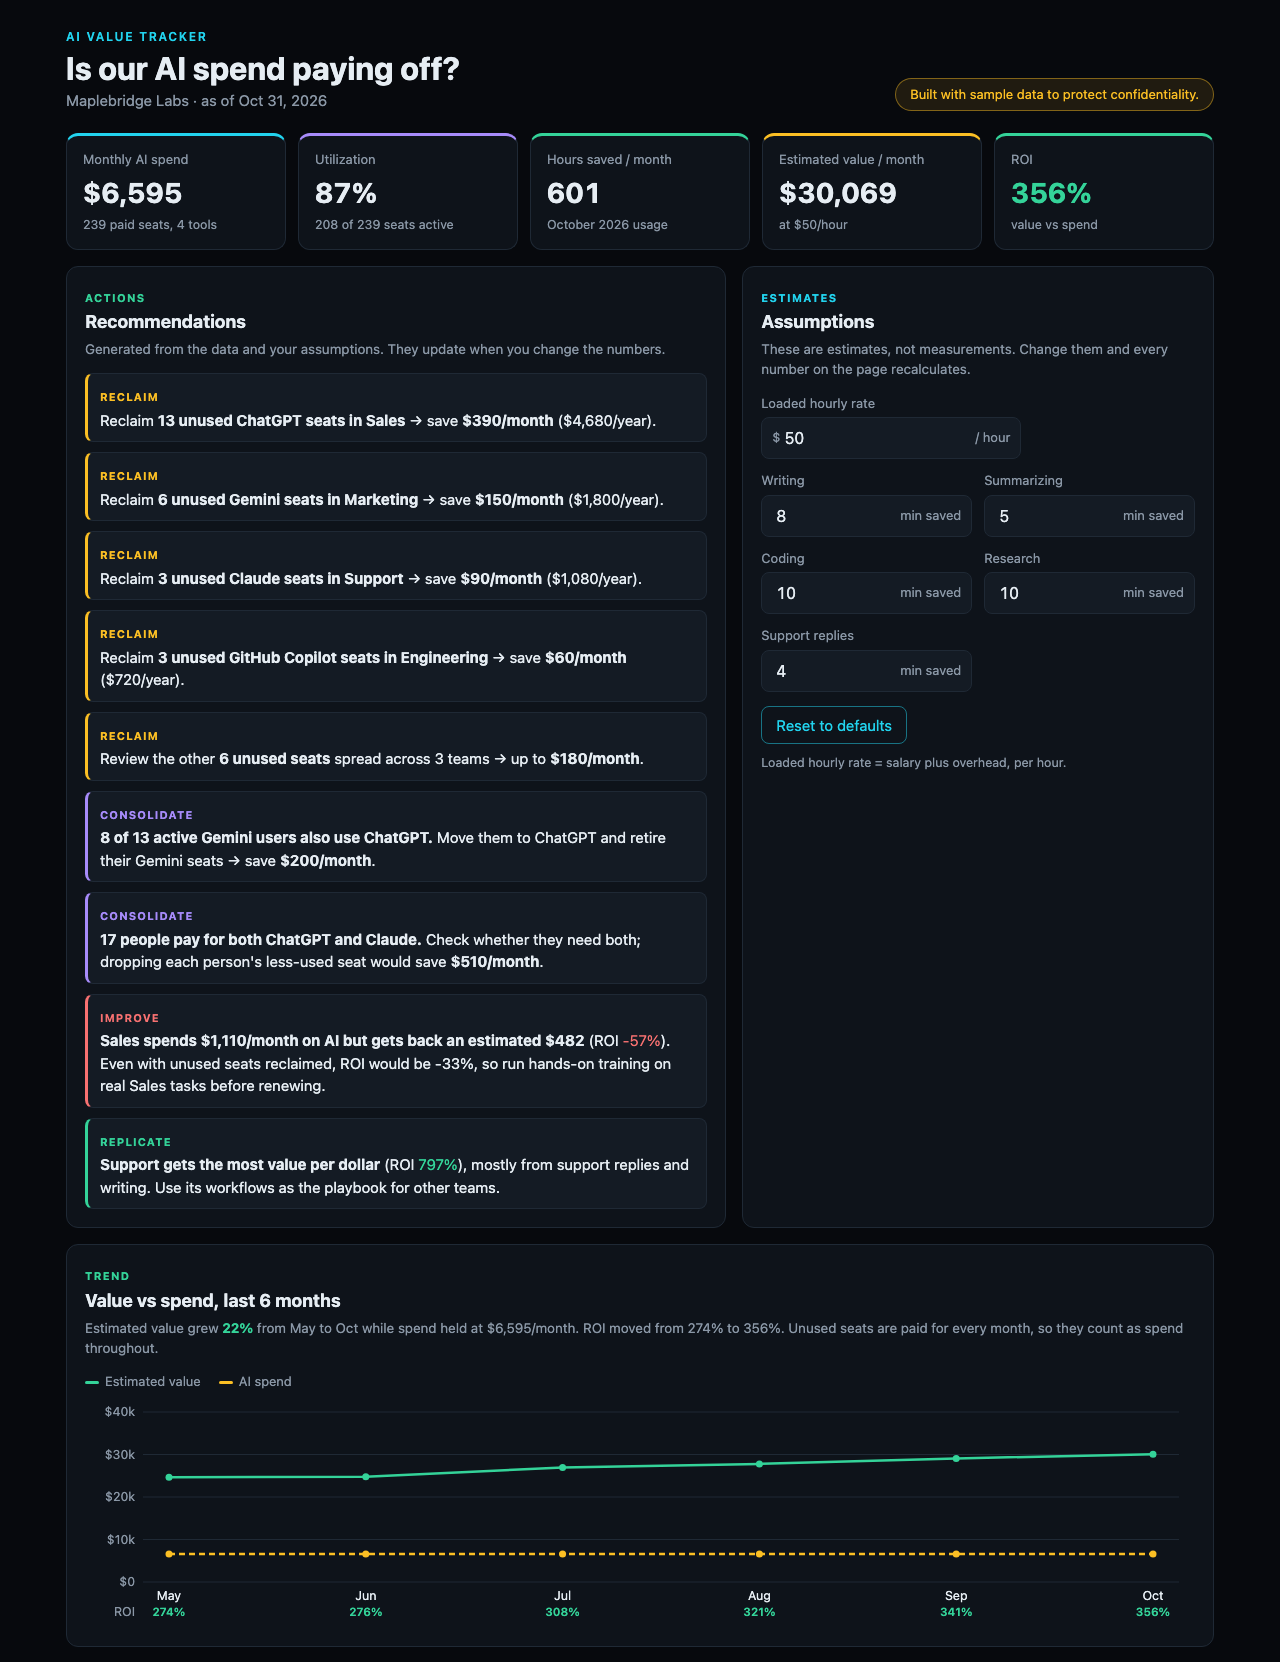
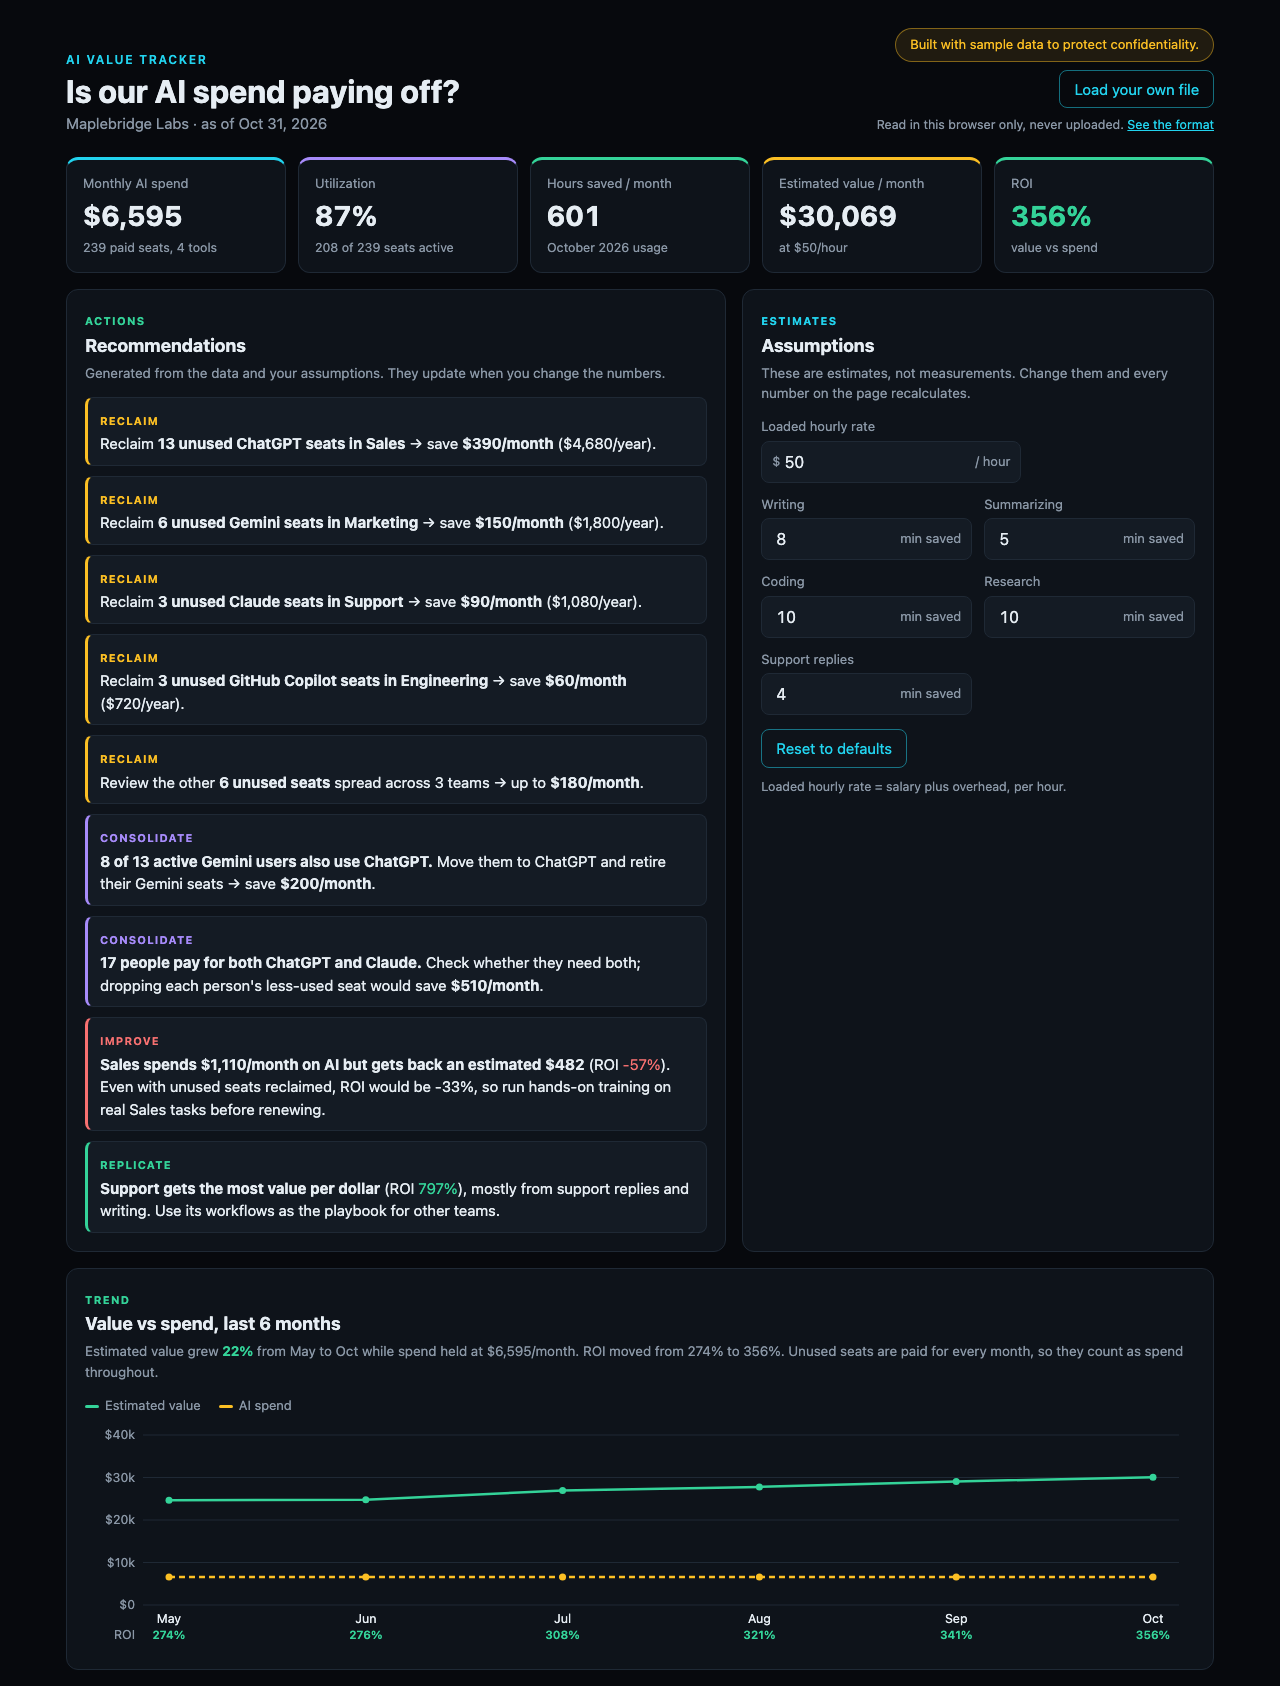
Add load-your-own-file button with validation
Read a user's JSON export in the browser (never uploaded), validate it
against the shape calculate() needs, and list every problem if it fails
while keeping the current data on screen. The couldn't-load panel gets
the same picker so opening index.html directly still works.

diff --git a/index.html b/index.html
@@ -119,6 +119,13 @@
   }
   footer { color: var(--muted); font-size: 13px; margin-top: 24px; text-align: center; }
 
+  .source { display: flex; flex-direction: column; align-items: flex-end; gap: 8px; text-align: right; }
+  @media (max-width: 640px) { .source { align-items: flex-start; text-align: left; } }
+  .source-actions { display: flex; flex-wrap: wrap; gap: 8px; }
+  .source a { color: var(--cyan); }
+  .sample-note.custom { border-color: color-mix(in srgb, var(--cyan) 45%, transparent); background: color-mix(in srgb, var(--cyan) 10%, transparent); color: var(--cyan); }
+  .file-status { border: 1px solid color-mix(in srgb, var(--red) 50%, transparent); background: color-mix(in srgb, var(--red) 10%, transparent); border-radius: var(--radius); padding: 12px 16px; margin-bottom: 16px; }
+  .file-status ul { margin: 6px 0 0; padding-left: 20px; }
   .load-error { display: none; max-width: 620px; margin: 60px auto; }
   .load-error code { background: var(--panel-2); padding: 2px 6px; border-radius: 4px; }
 </style>
@@ -131,13 +138,24 @@
       <h1>Is our AI spend paying off?</h1>
       <p class="sub" id="subtitle">Loading…</p>
     </div>
-    <div class="sample-note">Built with sample data to protect confidentiality.</div>
+    <div class="source">
+      <div class="sample-note" id="source-note">Built with sample data to protect confidentiality.</div>
+      <div class="source-actions">
+        <button type="button" class="reset" data-action="pick-file">Load your own file</button>
+        <button type="button" class="reset" id="use-sample" hidden>Back to sample data</button>
+      </div>
+      <div class="small">Read in this browser only, never uploaded. <a href="data/sample-usage.json" download>See the format</a></div>
+    </div>
+    <input type="file" id="file-input" accept=".json,application/json" hidden>
   </header>
+
+  <div class="file-status" id="file-status" role="alert" hidden></div>
 
   <div class="panel load-error" id="load-error" role="alert">
     <h2>The usage data couldn't load</h2>
     <p>Browsers block a page opened straight from your files from reading <code>data/sample-usage.json</code>.</p>
-    <p>View the live demo instead, or serve this folder locally, for example with <code>python3 -m http.server</code>, then open the address it prints.</p>
+    <p>Pick that file yourself instead, view the live demo, or serve this folder locally, for example with <code>python3 -m http.server</code>, then open the address it prints.</p>
+    <div class="actions"><button type="button" class="reset" data-action="pick-file">Choose a data file</button></div>
   </div>
 
   <main id="app" hidden>
@@ -645,14 +663,114 @@ function fillAssumptionInputs() {
 // ---------------------------------------------------------------------------
 // Start-up
 // ---------------------------------------------------------------------------
-function init(data) {
+const SAMPLE_URL = 'data/sample-usage.json';
+const MAX_FILE_BYTES = 20 * 1024 * 1024;
+let sampleData = null;
+
+// Checks a file has the shape calculate() relies on, and returns every problem
+// in plain English rather than stopping at the first, so one fix-up pass is enough.
+function validateData(d) {
+  const errors = [];
+  const isDate = (v) => typeof v === 'string' && /^\d{4}-\d{2}-\d{2}$/.test(v) && !Number.isNaN(Date.parse(v));
+  const isMonth = (v) => typeof v === 'string' && /^\d{4}-\d{2}$/.test(v);
+  if (!d || typeof d !== 'object' || Array.isArray(d)) return ['The file is not a JSON object.'];
+  const meta = d.meta ?? {};
+  if (!isDate(meta.asOf)) errors.push('meta.asOf must be a date like "2026-10-31".');
+  if (!Array.isArray(meta.months) || !meta.months.length || !meta.months.every(isMonth)) errors.push('meta.months must be a list of months like "2026-10", oldest first.');
+  if (!Array.isArray(d.teams) || !d.teams.length) errors.push('teams must be a non-empty list.');
+  if (!Array.isArray(d.tools) || !d.tools.length) errors.push('tools must be a non-empty list.');
+  if (!Array.isArray(d.seats) || !d.seats.length) errors.push('seats must be a non-empty list.');
+  // Seat checks need the three lists; without them, stop at what's already found.
+  if (![d.teams, d.tools, d.seats].every((list) => Array.isArray(list) && list.length)) return errors;
+
+  const teamNames = new Set();
+  d.teams.forEach((t, i) => {
+    if (typeof t?.name !== 'string' || !t.name) errors.push(`teams[${i}] needs a name.`);
+    else teamNames.add(t.name);
+  });
+  const toolIds = new Set();
+  d.tools.forEach((t, i) => {
+    if (typeof t?.id !== 'string' || typeof t?.name !== 'string') errors.push(`tools[${i}] needs an id and a name.`);
+    else toolIds.add(t.id);
+    if (!(Number.isFinite(t?.monthlyPricePerSeat) && t.monthlyPricePerSeat >= 0)) errors.push(`tools[${i}] needs a monthlyPricePerSeat number.`);
+    if (!['assistant', 'coding'].includes(t?.category)) errors.push(`tools[${i}] category must be "assistant" or "coding".`);
+  });
+
+  const MAX_SEAT_ERRORS = 5;
+  let seatErrors = 0;
+  const seatError = (msg) => { if (seatErrors++ < MAX_SEAT_ERRORS) errors.push(msg); };
+  d.seats.forEach((s, i) => {
+    const id = s?.seatId ?? `seats[${i}]`;
+    if (typeof s?.seatId !== 'string' || typeof s?.employeeId !== 'string') seatError(`${id} needs a seatId and an employeeId.`);
+    if (!teamNames.has(s?.team)) seatError(`${id} has team "${s?.team}", which isn't in the teams list.`);
+    if (!toolIds.has(s?.tool)) seatError(`${id} has tool "${s?.tool}", which isn't in the tools list.`);
+    if (s?.lastActive !== null && !isDate(s?.lastActive)) seatError(`${id} lastActive must be a date or null (never used).`);
+    if (!Array.isArray(s?.usage)) seatError(`${id} needs a usage list (it can be empty).`);
+    else if (!s.usage.every((u) => isMonth(u?.month) && u.tasks && typeof u.tasks === 'object' && Object.values(u.tasks).every((n) => Number.isFinite(n) && n >= 0))) {
+      seatError(`${id} usage entries need a month and task counts that are numbers.`);
+    }
+  });
+  if (seatErrors > MAX_SEAT_ERRORS) errors.push(`…and ${seatErrors - MAX_SEAT_ERRORS} more seat problems.`);
+  return errors;
+}
+
+function showFileStatus(html) {
+  const box = document.getElementById('file-status');
+  box.innerHTML = html;
+  box.hidden = !html;
+}
+
+// Swaps in a new dataset and redraws. `fileName` is null for the bundled sample.
+function loadData(data, fileName) {
   DATA = data;
-  const company = data.meta.company;
-  const latest = data.meta.months[data.meta.months.length - 1];
-  document.getElementById('subtitle').textContent = `${company} · as of ${longDate(data.meta.asOf)}`;
+  const meta = data.meta;
+  const latest = meta.months[meta.months.length - 1];
+  const company = meta.company || 'Your company';
+  document.getElementById('subtitle').textContent = `${company} · as of ${longDate(meta.asOf)}`;
   document.getElementById('measure-lead').textContent =
-    `Hours saved and value use the latest month of data (${monthName(latest)}). "Last 30 days" is counted back from ${longDate(data.meta.asOf)}. ${data.meta.pricingNote}`;
-  document.getElementById('footer').textContent = data.meta.note;
+    `Hours saved and value use the latest month of data (${monthName(latest)}); the trend uses each month. "Last 30 days" is counted back from ${longDate(meta.asOf)}. ${meta.pricingNote ?? ''}`;
+
+  const note = document.getElementById('source-note');
+  note.classList.toggle('custom', Boolean(fileName));
+  note.textContent = fileName ? `Your data: ${fileName}` : 'Built with sample data to protect confidentiality.';
+  document.getElementById('footer').textContent = fileName
+    ? `Showing ${fileName}. It was read in this browser and never uploaded; reloading the page goes back to the sample.`
+    : meta.note;
+  document.getElementById('use-sample').hidden = !fileName || !sampleData;
+
+  document.getElementById('load-error').style.display = 'none';
+  document.getElementById('app').hidden = false;
+  render();
+}
+
+function readUserFile(file) {
+  if (!file) return;
+  const fail = (lines) => showFileStatus(
+    `<strong>${esc(file.name)} wasn't loaded.</strong> The dashboard is unchanged.<ul>${lines.map((l) => `<li>${esc(l)}</li>`).join('')}</ul>`);
+  if (file.size > MAX_FILE_BYTES) return fail([`The file is ${num(file.size / 1048576)} MB; the limit is 20 MB.`]);
+  file.text().then((text) => {
+    let data;
+    try { data = JSON.parse(text); } catch (err) { return fail([`It isn't valid JSON (${err.message}).`]); }
+    const errors = validateData(data);
+    if (errors.length) return fail(errors);
+    showFileStatus('');
+    loadData(data, file.name);
+  }, () => fail(['The browser could not read the file.']));
+}
+
+function setup() {
+  const fileInput = document.getElementById('file-input');
+  document.addEventListener('click', (e) => {
+    if (e.target.closest('[data-action="pick-file"]')) fileInput.click();
+  });
+  fileInput.addEventListener('change', () => {
+    readUserFile(fileInput.files[0]);
+    fileInput.value = ''; // so choosing the same file again still fires "change"
+  });
+  document.getElementById('use-sample').addEventListener('click', () => {
+    showFileStatus('');
+    loadData(sampleData, null);
+  });
 
   buildAssumptionsForm();
   document.getElementById('reset').addEventListener('click', () => {
@@ -668,25 +786,27 @@ function init(data) {
     render();
   });
 
-  document.getElementById('app').hidden = false;
-  render();
-
   let pending = false;
   window.addEventListener('resize', () => {
-    if (pending) return;
+    if (pending || !DATA) return;
     pending = true;
     requestAnimationFrame(() => { pending = false; render(); });
   });
 }
 
-fetch('data/sample-usage.json')
+setup();
+fetch(SAMPLE_URL)
   .then((res) => {
     if (!res.ok) throw new Error(`HTTP ${res.status}`);
     return res.json();
   })
-  .then(init)
+  .then((data) => {
+    sampleData = data;
+    if (!DATA) loadData(data, null); // don't overwrite a file the user picked while this was loading
+  })
   .catch((err) => {
-    console.error('Could not load data/sample-usage.json:', err);
+    console.error(`Could not load ${SAMPLE_URL}:`, err);
+    if (DATA) return;
     document.getElementById('subtitle').textContent = 'Data unavailable';
     document.getElementById('load-error').style.display = 'block';
   });

diff --git a/README.md b/README.md
@@ -21,7 +21,7 @@ With the default assumptions ($50/hour, 4–10 minutes saved per task), the samp
 - **Trend:** estimated value grew 22% from May to October while spend stayed flat, so ROI climbed from 274% to 356% as people got used to the tools.
 - **Overlap:** 8 of 13 active Gemini users also use ChatGPT. Consolidating them saves $200/month.
 
-The data is synthetic; the method is real. Swap in a usage export from your AI vendors' admin consoles in the same format and the dashboard answers the same questions with real numbers.
+The data is synthetic; the method is real. Click **Load your own file** on the dashboard to swap in a usage export from your AI vendors' admin consoles, in the same format as [`data/sample-usage.json`](data/sample-usage.json), and it answers the same questions with real numbers. The file is read in your browser and never uploaded. If it has a problem, the page lists what to fix and leaves the current data in place.
 
 ![Dashboard screenshot](docs/screenshot.png)
 
@@ -33,7 +33,7 @@ The data is synthetic; the method is real. Swap in a usage export from your AI v
 
 ## How to run it
 1. Open the live demo (link below), or download/clone this repository.
-2. To run it locally, start a small web server in the project folder with `python3 -m http.server`, then open http://localhost:8000. Double-clicking `index.html` won't work: browsers block a page opened from your files from reading the data file.
+2. To run it locally, start a small web server in the project folder with `python3 -m http.server`, then open http://localhost:8000. If you double-click `index.html` instead, the browser blocks it from reading the data file; the page then offers a button to choose `data/sample-usage.json` yourself.
 3. Optional: regenerate the data with `node scripts/generate-sample-data.js`. It uses a fixed seed, so you get the same numbers every time.
 
 Live demo: https://sr-tech-hub.github.io/ai-value-tracker/
